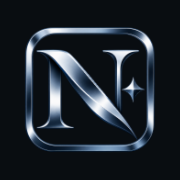
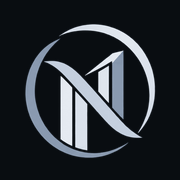
feat: new NEXEA branding, hero imagery refresh, Gold removal and sector copy updates
Branding
- New NEXEA Holding AG lighter logo and favicon (public/images/logo): header, footer, request-documents dialog,
  verification email (14 KB derivative), JSON-LD logo and a regenerated 1200x630 social image.
- Favicon family regenerated from the supplied favicon: favicon.ico (16/32/48), icon.png, Apple touch icon,
  manifest icons (192/512/maskable). Old logo/favicon assets removed; CSS light-sweep mask is now a 19 KB derivative.
- Logo imported statically (src/components/ui/logo-image.ts) so intrinsic size is known (no layout shift).

Imagery
- Homepage hero slider: new slide-1/2/3.jpg with per-breakpoint focal positions.
- Homepage About section: new home-about-img.png.
- About, Our Partners and Contact heroes: new images. About and Partners are real photographs from Unsplash
  (free under the Unsplash License; credited in docs/image-credits.md); Contact uses the supplied contact-us.png.
- Old hero images removed.

Content
- Gold & Precious Metals removed everywhere (sector lists, mosaic, directory, menus, pillar copy, SEO description,
  gold images); sector counts and the mega-menu stat are now derived from the data (14 sectors).

Excluded on purpose: stray Skyline PDF, a pdf24 zip of the private documents, and an unused image.

diff --git a/src/data/hero-slides.ts b/src/data/hero-slides.ts
@@ -17,9 +17,11 @@ export interface HeroSlide {
 
 /**
  * Homepage hero slides. Images (public/images/slider), assigned by what they show:
- *  - slide-1.png: Swiss lakeside terrace with the Nexea logo and guests   -> Corporate Identity
- *  - slide-2.png: executive office over an international financial district -> Strategic Investments
- *  - slide-3.png: executive boardroom in discussion                         -> Global Perspective
+ *  - slide-1.jpg: dark glass towers with a glowing bar chart and rising arrow -> Corporate Identity
+ *  - slide-2.jpg: bright blue towers with a rising chart                      -> Strategic Investments
+ *  - slide-3.jpg: sunset skyline with a world-network overlay                 -> Global Perspective
+ * All three are 2000 x 1121 JPEGs; next/image serves optimised AVIF/WebP. Positions keep each photo's subject (chart and
+ * towers) in frame while the copy sits over the left.
  * Route checks: /investments#approach (InvApproach), /partnerships and /contact all exist.
  */
 export const HERO_SLIDES: readonly HeroSlide[] = [
@@ -32,7 +34,7 @@ export const HERO_SLIDES: readonly HeroSlide[] = [
       "Established in Switzerland in 2004, Nexea Holding AG pursues long-term value through strategic corporate participations and a global investment perspective.",
     primary: { label: "Explore Investments", href: "/investments" },
     secondary: { label: "Discover Nexea", href: "/about" },
-    image: { src: "/images/slider/slide-1.png", position: { mobile: "86% 50%", tablet: "80% 50%", desktop: "70% 50%" } },
+    image: { src: "/images/slider/slide-1.jpg", position: { mobile: "64% 50%", tablet: "62% 50%", desktop: "55% 50%" } },
   },
   {
     id: "investments",
@@ -43,7 +45,7 @@ export const HERO_SLIDES: readonly HeroSlide[] = [
       "From real assets and established industries to technology and innovation, we explore investment opportunities with discipline and a long-term perspective.",
     primary: { label: "Our Investment Universe", href: "/investments" },
     secondary: { label: "Our Approach", href: "/investments#approach" },
-    image: { src: "/images/slider/slide-2.png", position: { mobile: "86% 50%", tablet: "76% 50%", desktop: "66% 50%" } },
+    image: { src: "/images/slider/slide-2.jpg", position: { mobile: "62% 50%", tablet: "60% 50%", desktop: "52% 50%" } },
   },
   {
     id: "partnerships",
@@ -54,7 +56,7 @@ export const HERO_SLIDES: readonly HeroSlide[] = [
       "We believe enduring value begins with thoughtful decisions, meaningful relationships, and opportunities that reach across markets and industries.",
     primary: { label: "Explore Partners", href: "/partnerships" },
     secondary: { label: "Get in Touch", href: "/contact" },
-    image: { src: "/images/slider/slide-3.png", position: { mobile: "88% 50%", tablet: "80% 50%", desktop: "72% 50%" } },
+    image: { src: "/images/slider/slide-3.jpg", position: { mobile: "44% 50%", tablet: "38% 50%", desktop: "50% 50%" } },
   },
 ];
 

diff --git a/src/components/ui/Wordmark.tsx b/src/components/ui/Wordmark.tsx
@@ -5,9 +5,7 @@ import Image from "next/image";
 import Link from "next/link";
 import { gsap } from "@/lib/gsap";
 import { useMotion } from "@/hooks/useMotion";
-
-/** Logo artwork supplied by Nexea; this variant has the tagline set in Arctic Silver so it reads on Obsidian. */
-const LOGO_SRC = "/images/nexea-holding-logo-on-dark.png";
+import { logoImage } from "@/components/ui/logo-image";
 
 interface WordmarkProps {
   /** "header": reveals on first paint. "footer": reveals once, when scrolled into view. */
@@ -52,10 +50,8 @@ export function Wordmark({ variant = "header", className = "", imageClassName = 
     <Link ref={root} href="/" aria-label="Nexea Holding AG, home" className={`on-dark group relative inline-block leading-none ${className}`}>
       <span data-anim data-logo-wrap className="relative block">
         <Image
-          src={LOGO_SRC}
+          src={logoImage}
           alt=""
-          width={2022}
-          height={537}
           priority={variant === "header"}
           quality={90}
           sizes={variant === "header" ? "(min-width: 768px) 159px, 151px" : "(min-width: 640px) 220px, 197px"}
@@ -65,7 +61,7 @@ export function Wordmark({ variant = "header", className = "", imageClassName = 
         <span
           aria-hidden
           data-logo-sheen
-          className="pointer-events-none absolute inset-0 [background-image:linear-gradient(105deg,transparent_38%,rgba(255,255,255,0.7)_50%,transparent_62%)] [background-position:100%_0] [background-size:260%_100%] [mask-image:url(/images/nexea-logo-mask.png)] [mask-repeat:no-repeat] [mask-size:100%_100%] [-webkit-mask-image:url(/images/nexea-logo-mask.png)] [-webkit-mask-repeat:no-repeat] [-webkit-mask-size:100%_100%]"
+          className="pointer-events-none absolute inset-0 [background-image:linear-gradient(105deg,transparent_38%,rgba(255,255,255,0.7)_50%,transparent_62%)] [background-position:100%_0] [background-size:260%_100%] [mask-image:url(/images/logo/nexea-logo-mask.png)] [mask-repeat:no-repeat] [mask-size:100%_100%] [-webkit-mask-image:url(/images/logo/nexea-logo-mask.png)] [-webkit-mask-repeat:no-repeat] [-webkit-mask-size:100%_100%]"
         />
       </span>
     </Link>

diff --git a/src/components/documents/RequestDocumentsModal.tsx b/src/components/documents/RequestDocumentsModal.tsx
@@ -8,6 +8,7 @@ import { ArrowRight, Check, FileText, Loader2, Lock, Mail, ShieldCheck, X } from
 import { gsap } from "@/lib/gsap";
 import { COMPANY } from "@/data/company";
 import { OtpCodeInput } from "@/components/documents/OtpCodeInput";
+import { logoImage } from "@/components/ui/logo-image";
 
 type View = "email" | "sending" | "otp" | "verifying" | "success" | "failure" | "retrying" | "unavailable";
 
@@ -250,7 +251,7 @@ export function RequestDocumentsModal({ onClose }: { onClose: () => void }) {
         {/* Brand panel */}
         <aside className="relative hidden flex-col justify-between border-r border-white/10 bg-white/[0.03] p-9 md:flex">
           <div>
-            <Image src="/images/nexea-holding-logo-on-dark.png" alt="Nexea Holding AG" width={2022} height={537} sizes="180px" className="h-12 w-auto" />
+            <Image src={logoImage} alt="Nexea Holding AG" sizes="180px" className="h-12 w-auto" />
             <p className="eyebrow mt-10 flex items-center gap-3 text-[0.6875rem] text-silver">
               <span aria-hidden className="h-px w-8 bg-silver/60" />
               Private Documents
@@ -288,7 +289,7 @@ export function RequestDocumentsModal({ onClose }: { onClose: () => void }) {
         <div className="min-w-0 p-6 pt-7 sm:p-9 md:pt-10">
           {/* Compact brand + progress for small screens */}
           <div className="mb-6 flex items-center justify-between gap-4 pr-10 md:hidden">
-            <Image src="/images/nexea-holding-logo-on-dark.png" alt="Nexea Holding AG" width={2022} height={537} sizes="120px" className="h-8 w-auto" />
+            <Image src={logoImage} alt="Nexea Holding AG" sizes="120px" className="h-8 w-auto" />
             <div className="flex items-center gap-1.5" role="img" aria-label={`Step ${step + 1} of 3`}>
               {STEPS.map((s, i) => (
                 <span key={s.title} aria-hidden className={`h-1 rounded-full transition-all duration-500 ${i === step ? "w-7 bg-platinum" : i < step ? "w-3 bg-platinum/70" : "w-3 bg-white/20"}`} />

diff --git a/src/components/layout/MegaMenus.tsx b/src/components/layout/MegaMenus.tsx
@@ -29,7 +29,7 @@ function Arcs({ className }: { className: string }) {
   );
 }
 
-/** Investments: dark, typography-led directory of the 15 sectors in four categories. */
+/** Investments: dark, typography-led directory of the investment sectors in four categories. */
 export function InvestmentsMega({ id, open, onNavigate }: PanelProps) {
   return (
     <div id={id} inert={!open} className={shell(open)}>
@@ -49,7 +49,7 @@ export function InvestmentsMega({ id, open, onNavigate }: PanelProps) {
             <div className="mt-8 border-t border-white/10 pt-5">
               <dl className="hidden gap-8 lg:flex">
                 <div>
-                  <dd className="font-display text-[2rem] leading-none text-pure">15</dd>
+                  <dd className="font-display text-[2rem] leading-none text-pure">{INVESTMENT_SECTORS.length}</dd>
                   <dt className="eyebrow mt-2 text-[0.5625rem] text-silver">Sectors of interest</dt>
                 </div>
                 <div>
@@ -100,7 +100,7 @@ export function InvestmentsMega({ id, open, onNavigate }: PanelProps) {
               })}
             </div>
             <div className="flex items-center justify-between gap-6 border-t border-white/10 bg-white/[0.02] px-7 py-3 xl:px-8">
-              <p className="hidden text-[0.75rem] leading-[1.4] text-silver/80 md:block">Fifteen sectors across four strategic categories.</p>
+              <p className="hidden text-[0.75rem] leading-[1.4] text-silver/80 md:block">{INVESTMENT_SECTORS.length} sectors across four strategic categories.</p>
               <Link
                 href="/investments"
                 onClick={onNavigate}

diff --git a/src/lib/seo.ts b/src/lib/seo.ts
@@ -4,7 +4,8 @@ import { PAGES, SITE_SLOGAN, type PageSeo } from "@/data/seo";
 
 export const SITE_URL = COMPANY.url;
 export const SITE_NAME = COMPANY.name;
-export const LOGO_URL = `${SITE_URL}/images/nexea-holding-logo.png`;
+/** The supplied lighter logo (transparent PNG, 1586 x 450). The file name contains spaces, so the URL is encoded. */
+export const LOGO_URL = `${SITE_URL}/images/logo/NEXEA%20Holding%20AG%20Lighter%20logo.png`;
 
 /** Branded 1200 x 630 social-sharing image (public/og). Relative: resolved against metadataBase. */
 export const OG_IMAGE = {
@@ -53,7 +54,7 @@ const organization = {
   name: SITE_NAME,
   legalName: SITE_NAME,
   url: SITE_URL,
-  logo: { "@type": "ImageObject", "@id": `${SITE_URL}/#logo`, url: LOGO_URL, contentUrl: LOGO_URL, width: 2022, height: 537, caption: SITE_NAME },
+  logo: { "@type": "ImageObject", "@id": `${SITE_URL}/#logo`, url: LOGO_URL, contentUrl: LOGO_URL, width: 1586, height: 450, caption: SITE_NAME },
   image: `${SITE_URL}${OG_IMAGE.url}`,
   slogan: SITE_SLOGAN,
   description: PAGES.home.description,

diff --git a/src/data/investment-sectors.ts b/src/data/investment-sectors.ts
@@ -24,7 +24,7 @@ export interface InvestmentSector {
 }
 
 /**
- * The 15 sectors of interest. These are proposed investment interests, NOT
+ * The 14 sectors of interest. These are proposed investment interests, NOT
  * current portfolio companies or holdings.
  *
  * No sector has a published inner page yet, so entries carry no `href`. When
@@ -38,13 +38,6 @@ export const INVESTMENT_SECTORS: readonly InvestmentSector[] = [
     description: "Residential, commercial, and development-related investment opportunities.",
     group: "real-assets",
     image: { src: "/images/universe-real-estate.jpg", alt: "Upward view of a glass residential and office tower", position: "40% 40%" },
-  },
-  {
-    slug: "gold-precious-metals",
-    title: "Gold & Precious Metals",
-    description: "Precious metals, commodity-linked assets, and related businesses.",
-    group: "real-assets",
-    image: { src: "/images/universe-gold.jpg", alt: "Gold bars and coins", position: "50% 50%" },
   },
   {
     slug: "energy-renewable-power",

diff --git a/src/components/sections/FeaturedSectors.tsx b/src/components/sections/FeaturedSectors.tsx
@@ -8,6 +8,7 @@ import { gsap } from "@/lib/gsap";
 import { fadeUp, parallax, revealImage, revealLines } from "@/lib/animations";
 import { useMotion } from "@/hooks/useMotion";
 import { SECTORS, type Sector } from "@/data/sectors";
+import { INVESTMENT_SECTORS } from "@/data/investment-sectors";
 import { Button } from "@/components/ui/Button";
 import { MaskedLines } from "@/components/ui/MaskedLines";
 import { SectionLabel } from "@/components/ui/SectionLabel";
@@ -207,7 +208,7 @@ export function FeaturedSectors() {
           className="mt-10 flex flex-col items-start gap-6 sm:mt-12 sm:flex-row sm:items-center sm:gap-8"
         >
           <span aria-hidden className="hidden h-px flex-1 bg-line sm:block" />
-          <Button href="/investments#sectors" variant="solid-dark">Discover All 15 Sectors</Button>
+          <Button href="/investments#sectors" variant="solid-dark">Discover All {INVESTMENT_SECTORS.length} Sectors</Button>
         </div>
       </div>
     </section>

diff --git a/src/data/sectors.ts b/src/data/sectors.ts
@@ -30,19 +30,6 @@ export const SECTORS: readonly Sector[] = [
     size: "feature",
   },
   {
-    id: "gold",
-    title: "Gold & Precious Metals",
-    summary:
-      "Precious metal assets, commodity-linked opportunities, and businesses connected to established stores of value.",
-    image: {
-      src: "/images/sector-gold.jpg",
-      alt: "A pile of gold bars and coins on a black background",
-      position: "50% 45%",
-    },
-    layout: "lg:col-span-5",
-    size: "wide",
-  },
-  {
     id: "ai",
     title: "Artificial Intelligence",
     summary:
@@ -52,7 +39,7 @@ export const SECTORS: readonly Sector[] = [
       alt: "Rows of illuminated server racks in a data centre",
       position: "50% 50%",
     },
-    layout: "lg:col-span-5",
+    layout: "md:col-span-2 lg:col-span-5 lg:row-span-2",
     size: "wide",
   },
   {

diff --git a/src/components/contact/ContactHero.tsx b/src/components/contact/ContactHero.tsx
@@ -35,13 +35,13 @@ export function ContactHero() {
       <div data-ch-parallax aria-hidden className="absolute inset-x-0 -top-[6%] -z-20 h-[112%] will-change-transform">
         <div data-ch-zoom className="absolute inset-0 will-change-transform">
           <Image
-            src="/images/contact-hero.webp"
+            src="/images/contact-us.png"
             alt=""
             fill
             priority
             fetchPriority="high"
             sizes="100vw"
-            className="object-cover object-[88%_45%] md:object-[100%_45%]"
+            className="object-cover object-[78%_50%] md:object-[100%_50%]"
           />
         </div>
       </div>

diff --git a/src/components/sections/About.tsx b/src/components/sections/About.tsx
@@ -81,8 +81,8 @@ export function About() {
             className="absolute inset-x-0 -top-[7%] h-[114%] will-change-transform"
           >
             <Image
-              src="/images/home-about-reception.webp"
-              alt="Nexea Holding AG reception with the company logo, a visitor being welcomed by the team, and lake and mountain views"
+              src="/images/home-about-img.png"
+              alt="Upward view of modern glass office towers against a pale, overcast sky"
               fill
               sizes="(min-width: 1024px) 43vw, 100vw"
               className="object-cover object-[50%_55%] sm:object-[50%_50%] lg:object-[85%_45%]"

diff --git a/src/components/partnerships/PartnersHero.tsx b/src/components/partnerships/PartnersHero.tsx
@@ -32,13 +32,13 @@ export function PartnersHero() {
       <div aria-hidden className="absolute inset-0 -z-20">
         <div data-ph-zoom className="absolute inset-0 will-change-transform">
           <Image
-            src="/images/partnerships-hero.webp"
+            src="/images/partners-hero-boardroom.webp"
             alt=""
             fill
             priority
             fetchPriority="high"
             sizes="100vw"
-            className="object-cover object-[72%_50%] md:object-[60%_50%]"
+            className="object-cover object-[62%_50%] md:object-[60%_50%]"
           />
         </div>
       </div>

diff --git a/src/lib/documents-access/mail.ts b/src/lib/documents-access/mail.ts
@@ -23,7 +23,7 @@ export async function sendMail(input: { to: string; subject: string; html: strin
   const from = process.env.DOCUMENTS_FROM_EMAIL || process.env.CONTACT_FROM_EMAIL;
   if (!key || !from) throw new Error("mail_not_configured");
 
-  const logo = await readFile(/*turbopackIgnore: true*/ path.join(process.cwd(), "public", "images", "nexea-email-logo.png"));
+  const logo = await readFile(/*turbopackIgnore: true*/ path.join(process.cwd(), "public", "images", "logo", "nexea-logo-email.png"));
   const controller = new AbortController();
   const timer = setTimeout(() => controller.abort(), 45_000);
   try {
